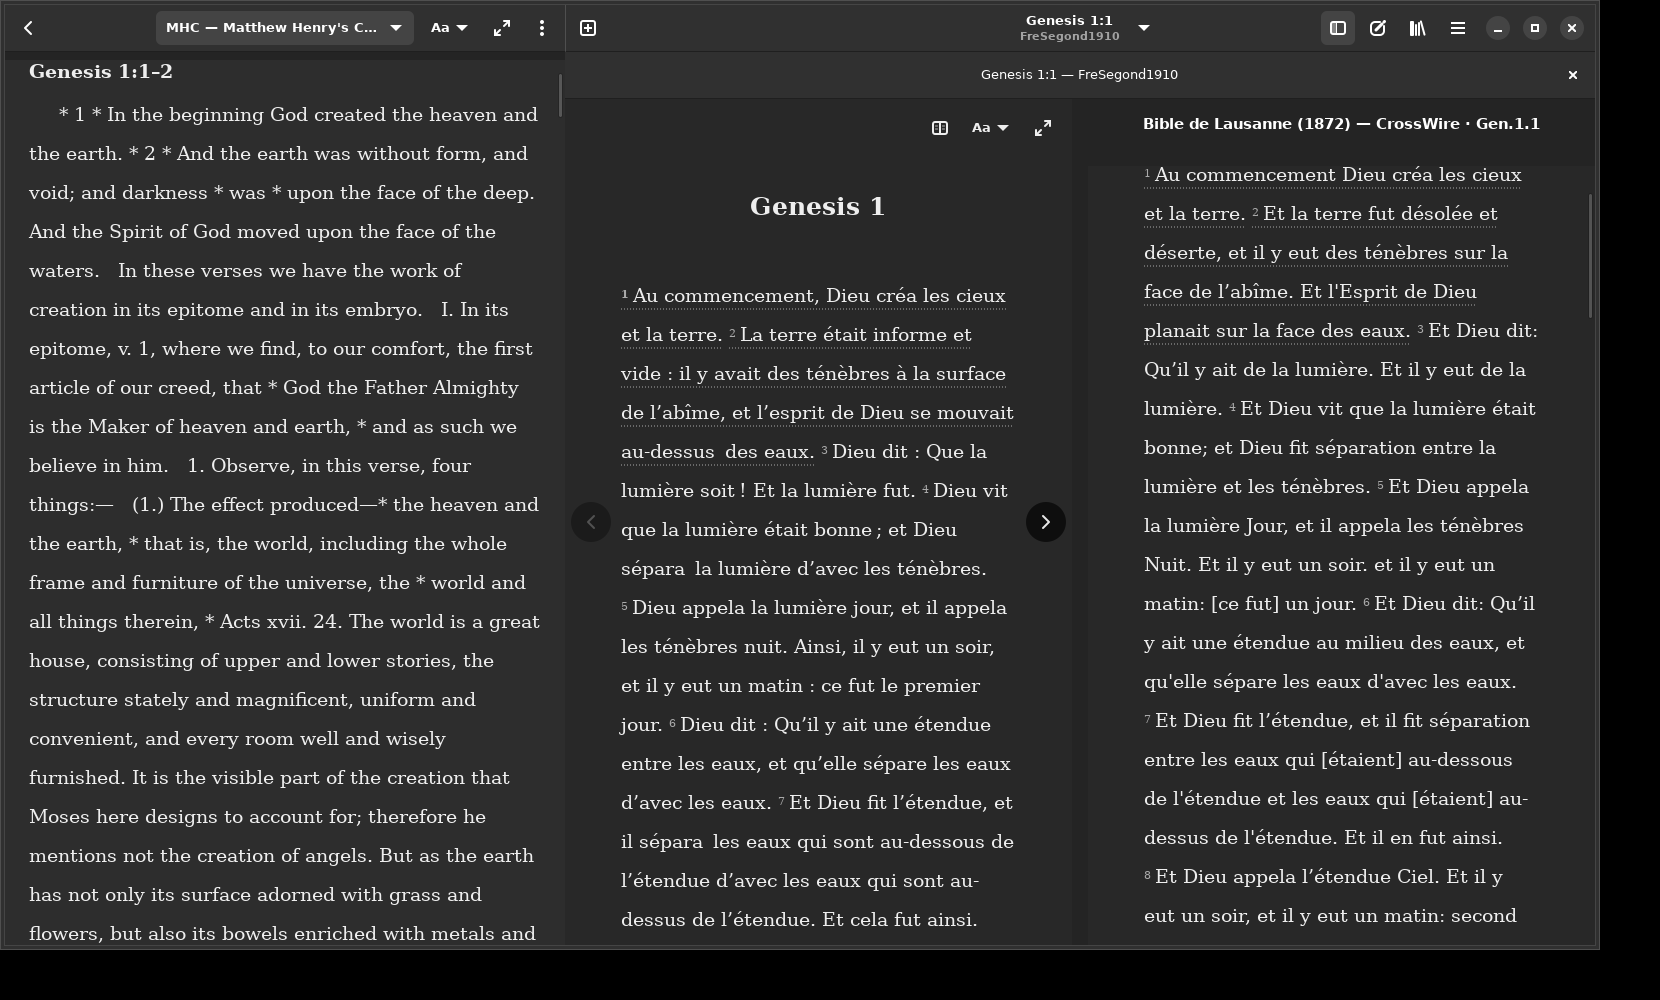
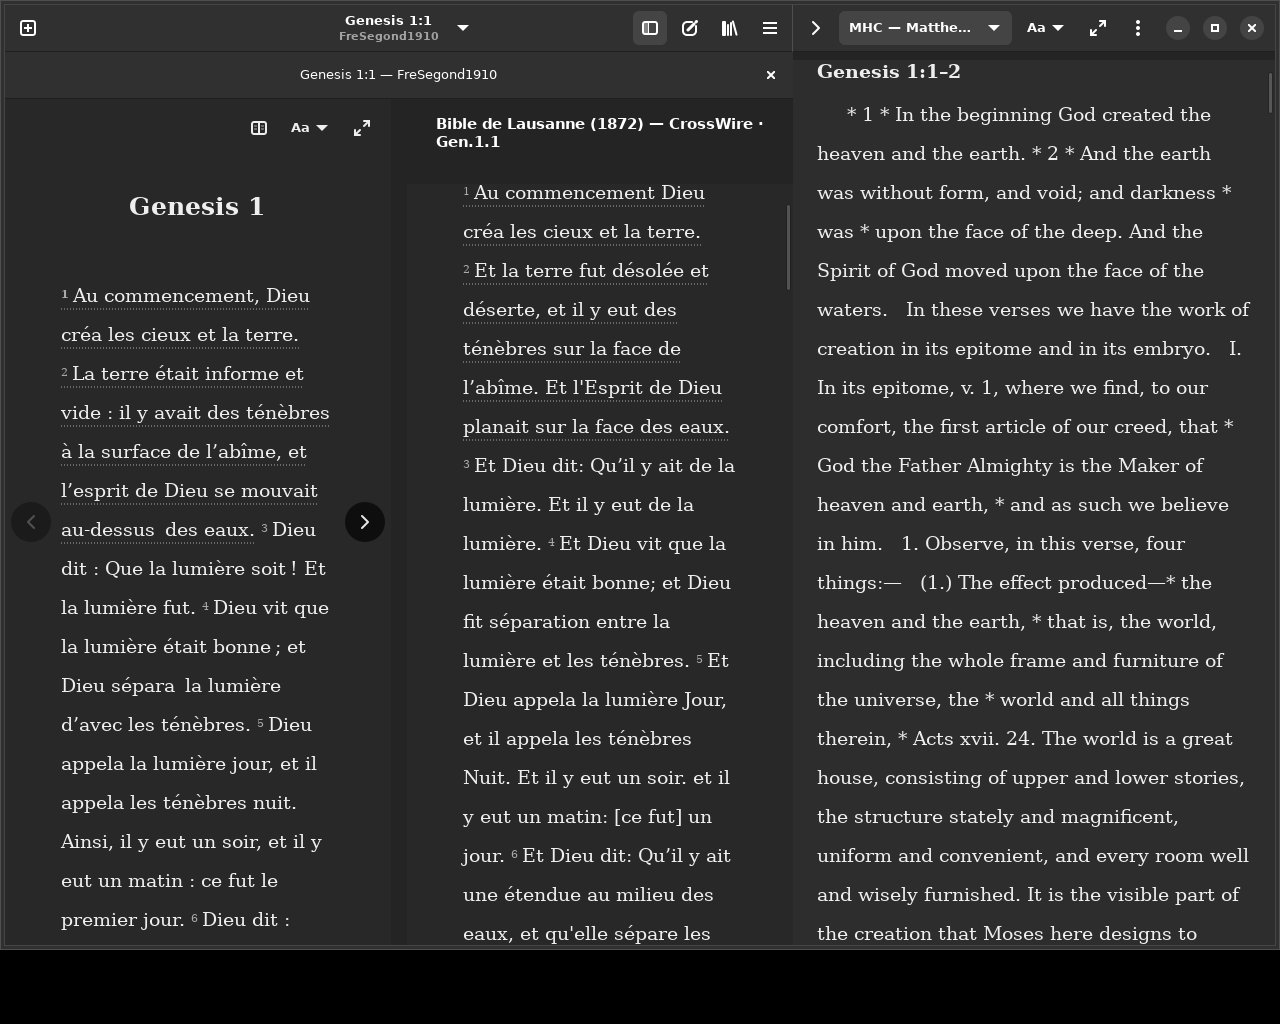
Record verified right-drawer alpha delivery and remaining review dependencies [skip ci]

diff --git a/docs/ALPHA_OVERNIGHT_HANDOFF.md b/docs/ALPHA_OVERNIGHT_HANDOFF.md
@@ -1,9 +1,22 @@
 # Alpha stabilization handoff — 21 October 2026
 
-**Latest application source:** `f8395bc145494695e89ca49262618d9f2dac23aa`.
-The client subsequently corrected #44 to a RIGHT drawer. That targeted
-follow-up is in progress; final delivery must include it. Delivery metadata below
-is finalized only after public signed update verification.
+**Latest application source:** `08a00d2c3133764fbfd7e70f2ad5350cb0e1c3cf`.
+The client corrected #44 to a RIGHT drawer, Bible LEFT. The targeted follow-up
+is implemented, tested, pushed and published. All 143 tests and real native
+drawer/coverage checks pass. Captures show the corrected layout.
+
+**Verified final delivery:** CI [39631126308](https://github.com/icfmp/Bible/actions/runs/39631126308)
+and publication [39632604890](https://github.com/icfmp/Bible/actions/runs/39632604890)
+are green. Public revision **39632604890-2**. An existing system
+alpha client actually updated to Flatpak
[1 lines of base64/hex data omitted]
+Fingerprint unchanged: `47A17230403EA4953745E6E020EB9FFCCECAFD8F`.
+The public install/update workflow also verifies user-data preservation. No token,
+signing key, channel or repository configuration was regenerated or changed.
+The PR41 redesign was not published by this ordinary alpha delivery.
+Eleven affected geometry/native UI/context/action tests also pass in the actually
+updated public alpha, with imports asserted under `/app/lib/bible-python` rather
+than the source checkout. This is GTK/Xvfb evidence, not manual GNOME acceptance.
 
 ## Current resumption state — latest work
 
@@ -24,11 +37,17 @@ is finalized only after public signed update verification.
   143 full local tests, 10 final affected tests and real offline native action,
   popup, coverage and comparison probes pass. Final native study wheel and
   >1.5-second drags pass in both directions with focus/history preserved.
-- PR #40 remains unmerged at `3496f1a`: CI 39608953767 green, final main coordinated, 148 tests,
+- PR #40 remains unmerged at `09d24c6`: main through 08a00d2 coordinated;
+  CI 39631209621 green (148 full tests plus 67 localized checks); 11 affected
+  local tests pass after the side correction. Earlier 3496f1a: CI
+  39608953767 green, 148 full tests,
   native actual second-Bible Highlight source/versification verified; personal
   overlap, hide/show independence and immersion verified. This is the explicit
   remaining dependency for #46's Highlight button; main has Copy/Note/Compare.
-- PR #39 remains unmerged at `c981f95`: CI 39609210333 green, final main coordinated, 146 tests,
+- PR #39 remains unmerged at `f079f9d`: main through 08a00d2 coordinated;
+  CI 39631262242 green (146 full tests plus 67 localized checks); 11 affected
+  local tests pass after the side correction. Earlier c981f95: CI
+  39609210333 green, 146 full tests,
   actual offline Genesis 211 exact pages/42 chapter continuations, 1.47 s
   preparation, 75 GTK heartbeat ticks, maximum observed gap 0.365 s. Canonical
   reflow anchor and native contextual actions pass. Whole-book shaping keeps
@@ -48,7 +67,7 @@ is finalized only after public signed update verification.
   `/src`, and assert `bible.__file__` starts with `/app/`; do not test source
   overlays accidentally. Public branch `//alpha` is distinct from `//master`.
 
-### Ordered client checks for the final source
+### Ordered client checks for the final source (right drawer)
 
 1. Update the existing alpha and reopen saved resources, notes, session and
    explicit appearance preferences. Reset only a disposable profile to check

diff --git a/docs/PASSAGE_ACTIONS_46.md b/docs/PASSAGE_ACTIONS_46.md
@@ -56,6 +56,9 @@ and the native Highlight action verify original Calvin/Lausanne identity. On
 PR39 `c981f95`, 146 tests and the native action probe verify continuous-book
 compatibility. Both review branches are pushed, not merged or published.
 
-Final public availability requires green CI/publication and an actual update of
-the existing signed alpha. Keep #46 open for the PR40 Highlight dependency and
+Public final source `08a00d2` is verified: CI 39631126308 and publication
+39632604890 green, revision 39632604890-2; actual existing system alpha update
+matches public provenance with the unchanged signing fingerprint. See
+`ALPHA_OVERNIGHT_HANDOFF.md`. Eleven affected tests also pass in the actually
+updated public alpha with asserted `/app` imports. Keep #46 open for the PR40 Highlight dependency and
 manual client acceptance; #26 stays excluded and #28 remains manual guidance.

diff --git a/docs/COMMENTARY_COVERAGE_45.md b/docs/COMMENTARY_COVERAGE_45.md
@@ -38,6 +38,8 @@ personal highlight's double underline and this dotted cue can coexist; neither
 changes the other's state. Manual GNOME/Wayland, live desktop high contrast and
 assistive-technology acceptance remain distinct from these Xvfb checks.
 
-This source is not announced as published until CI, signed publication and an
-actual public-channel update have been verified. No issue is closed merely from
+Published in final source `08a00d2`, CI 39631126308/publication 39632604890
+green, revision 39632604890-2; actual system alpha update verified against
+public provenance with unchanged signing fingerprint. Captures now show the
+client-corrected right drawer. See `ALPHA_OVERNIGHT_HANDOFF.md`. No issue is closed merely from
 the presence of this visual cue; #25 retains its remaining acceptance criteria.

diff --git a/docs/STUDY_DRAWER_44.md b/docs/STUDY_DRAWER_44.md
@@ -80,3 +80,9 @@ Updated captures and the slide recording above show the actual right drawer.
 The targeted geometry/native action checks pass; final delivery metadata is in
 `ALPHA_OVERNIGHT_HANDOFF.md`. Earlier left-drawer screenshots in historical issue
 comments are superseded by these captures.
+
+
+The RIGHT-drawer follow-up is published in source `08a00d2`: CI 39631126308
+and publication 39632604890 green, revision 39632604890-2. An actual existing
+system alpha update matches public provenance; the signing fingerprint is
+unchanged. This does not replace the client's manual GNOME retest.
